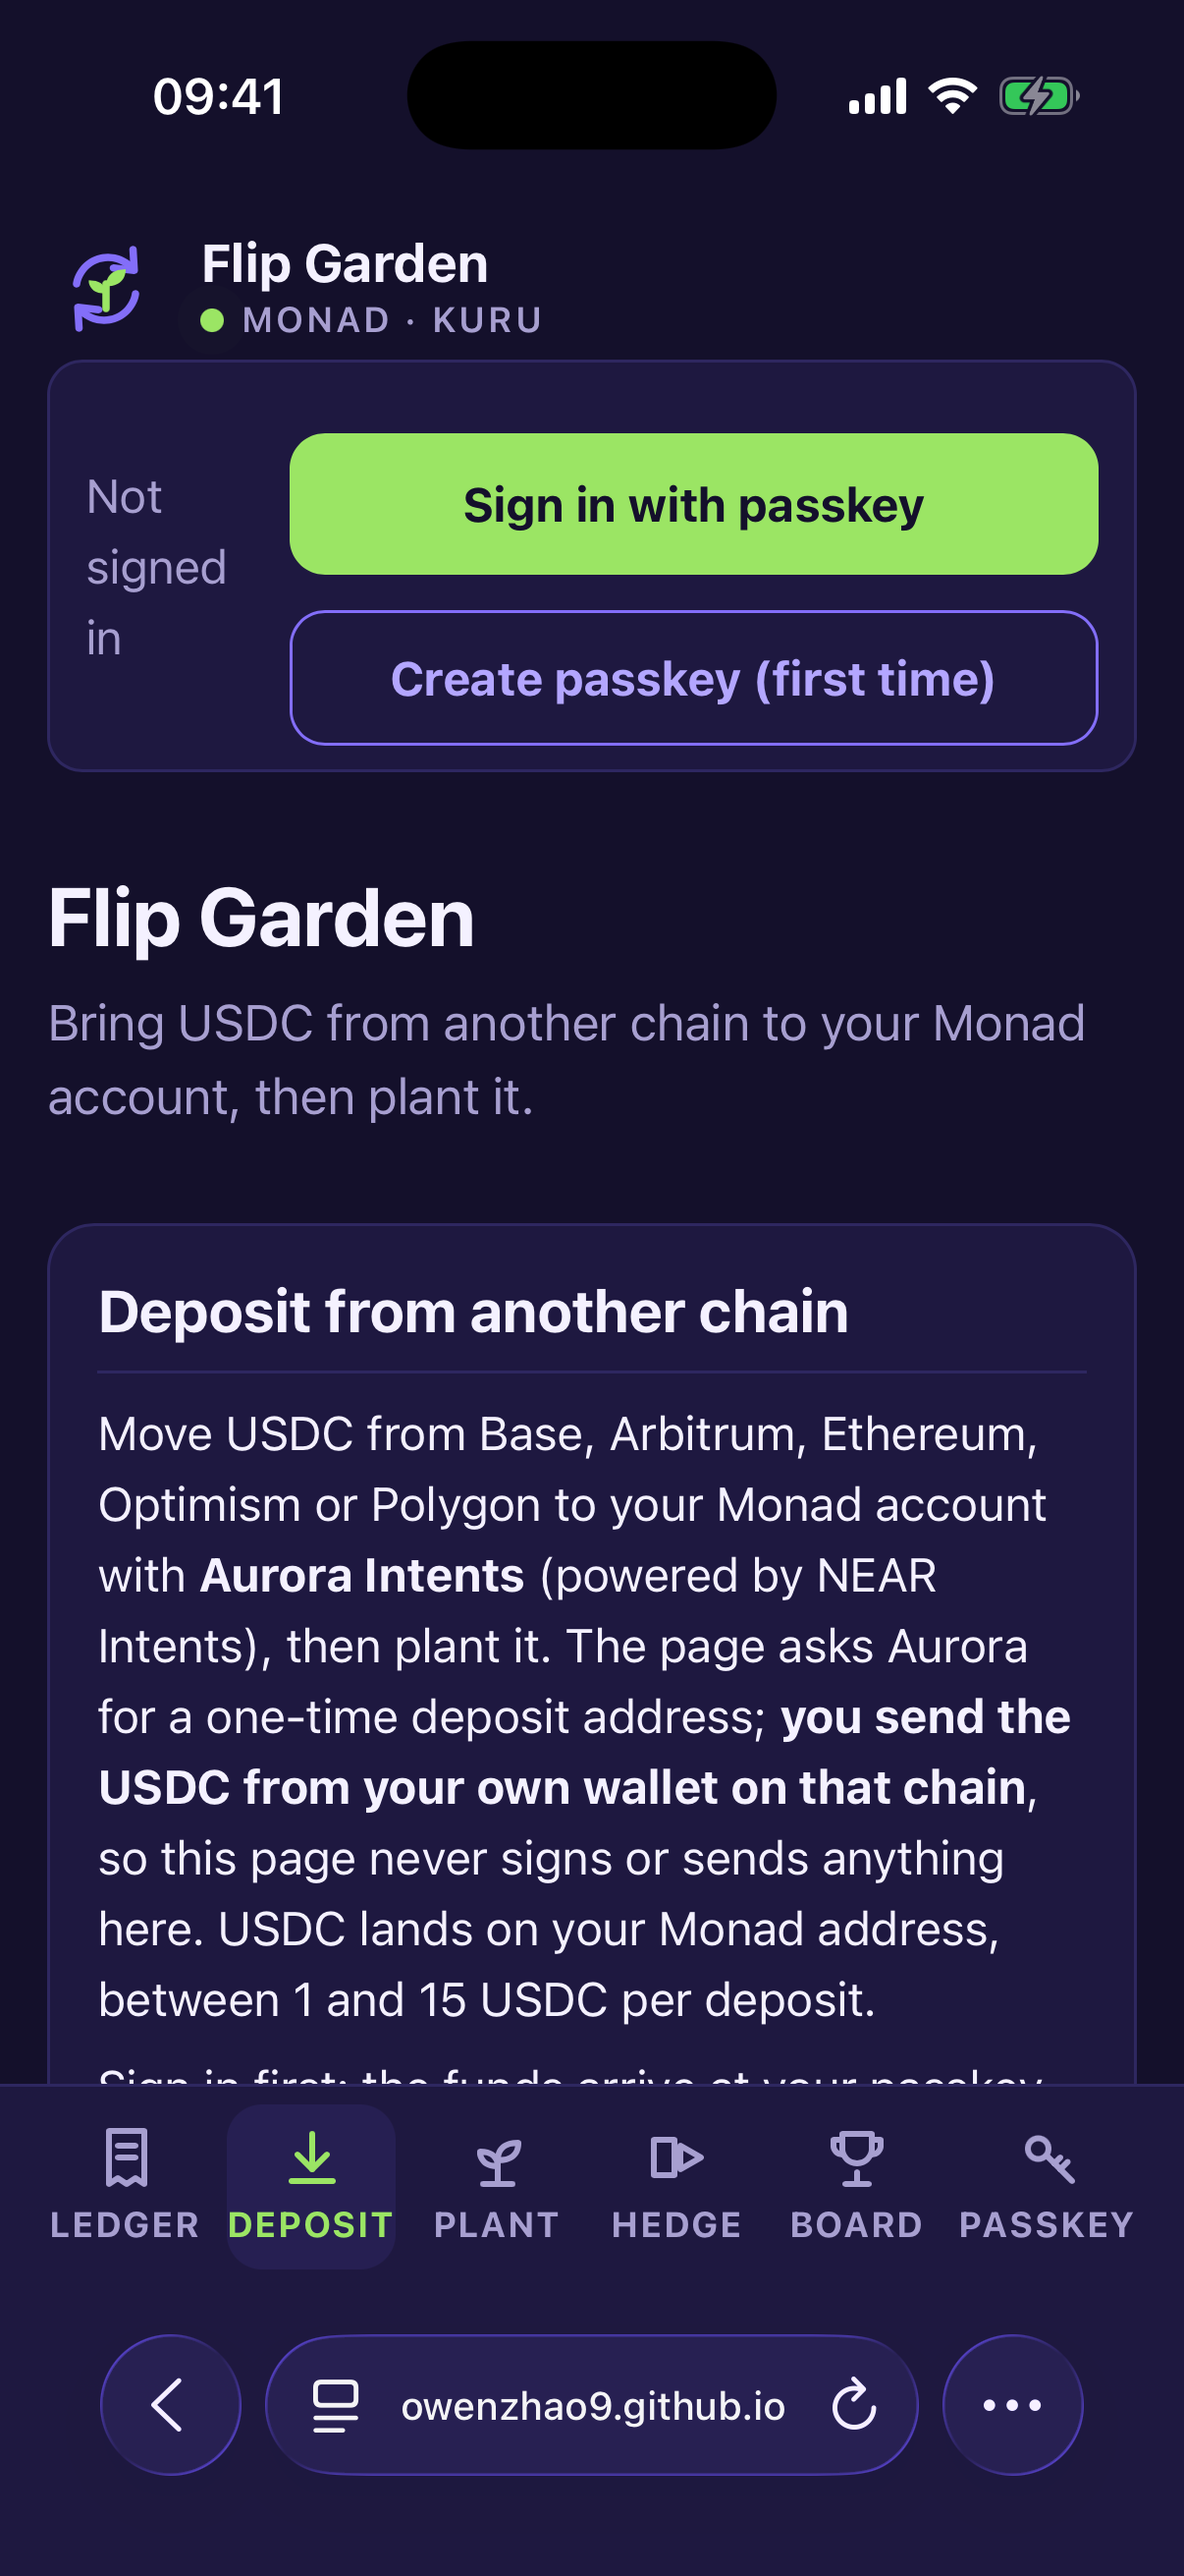
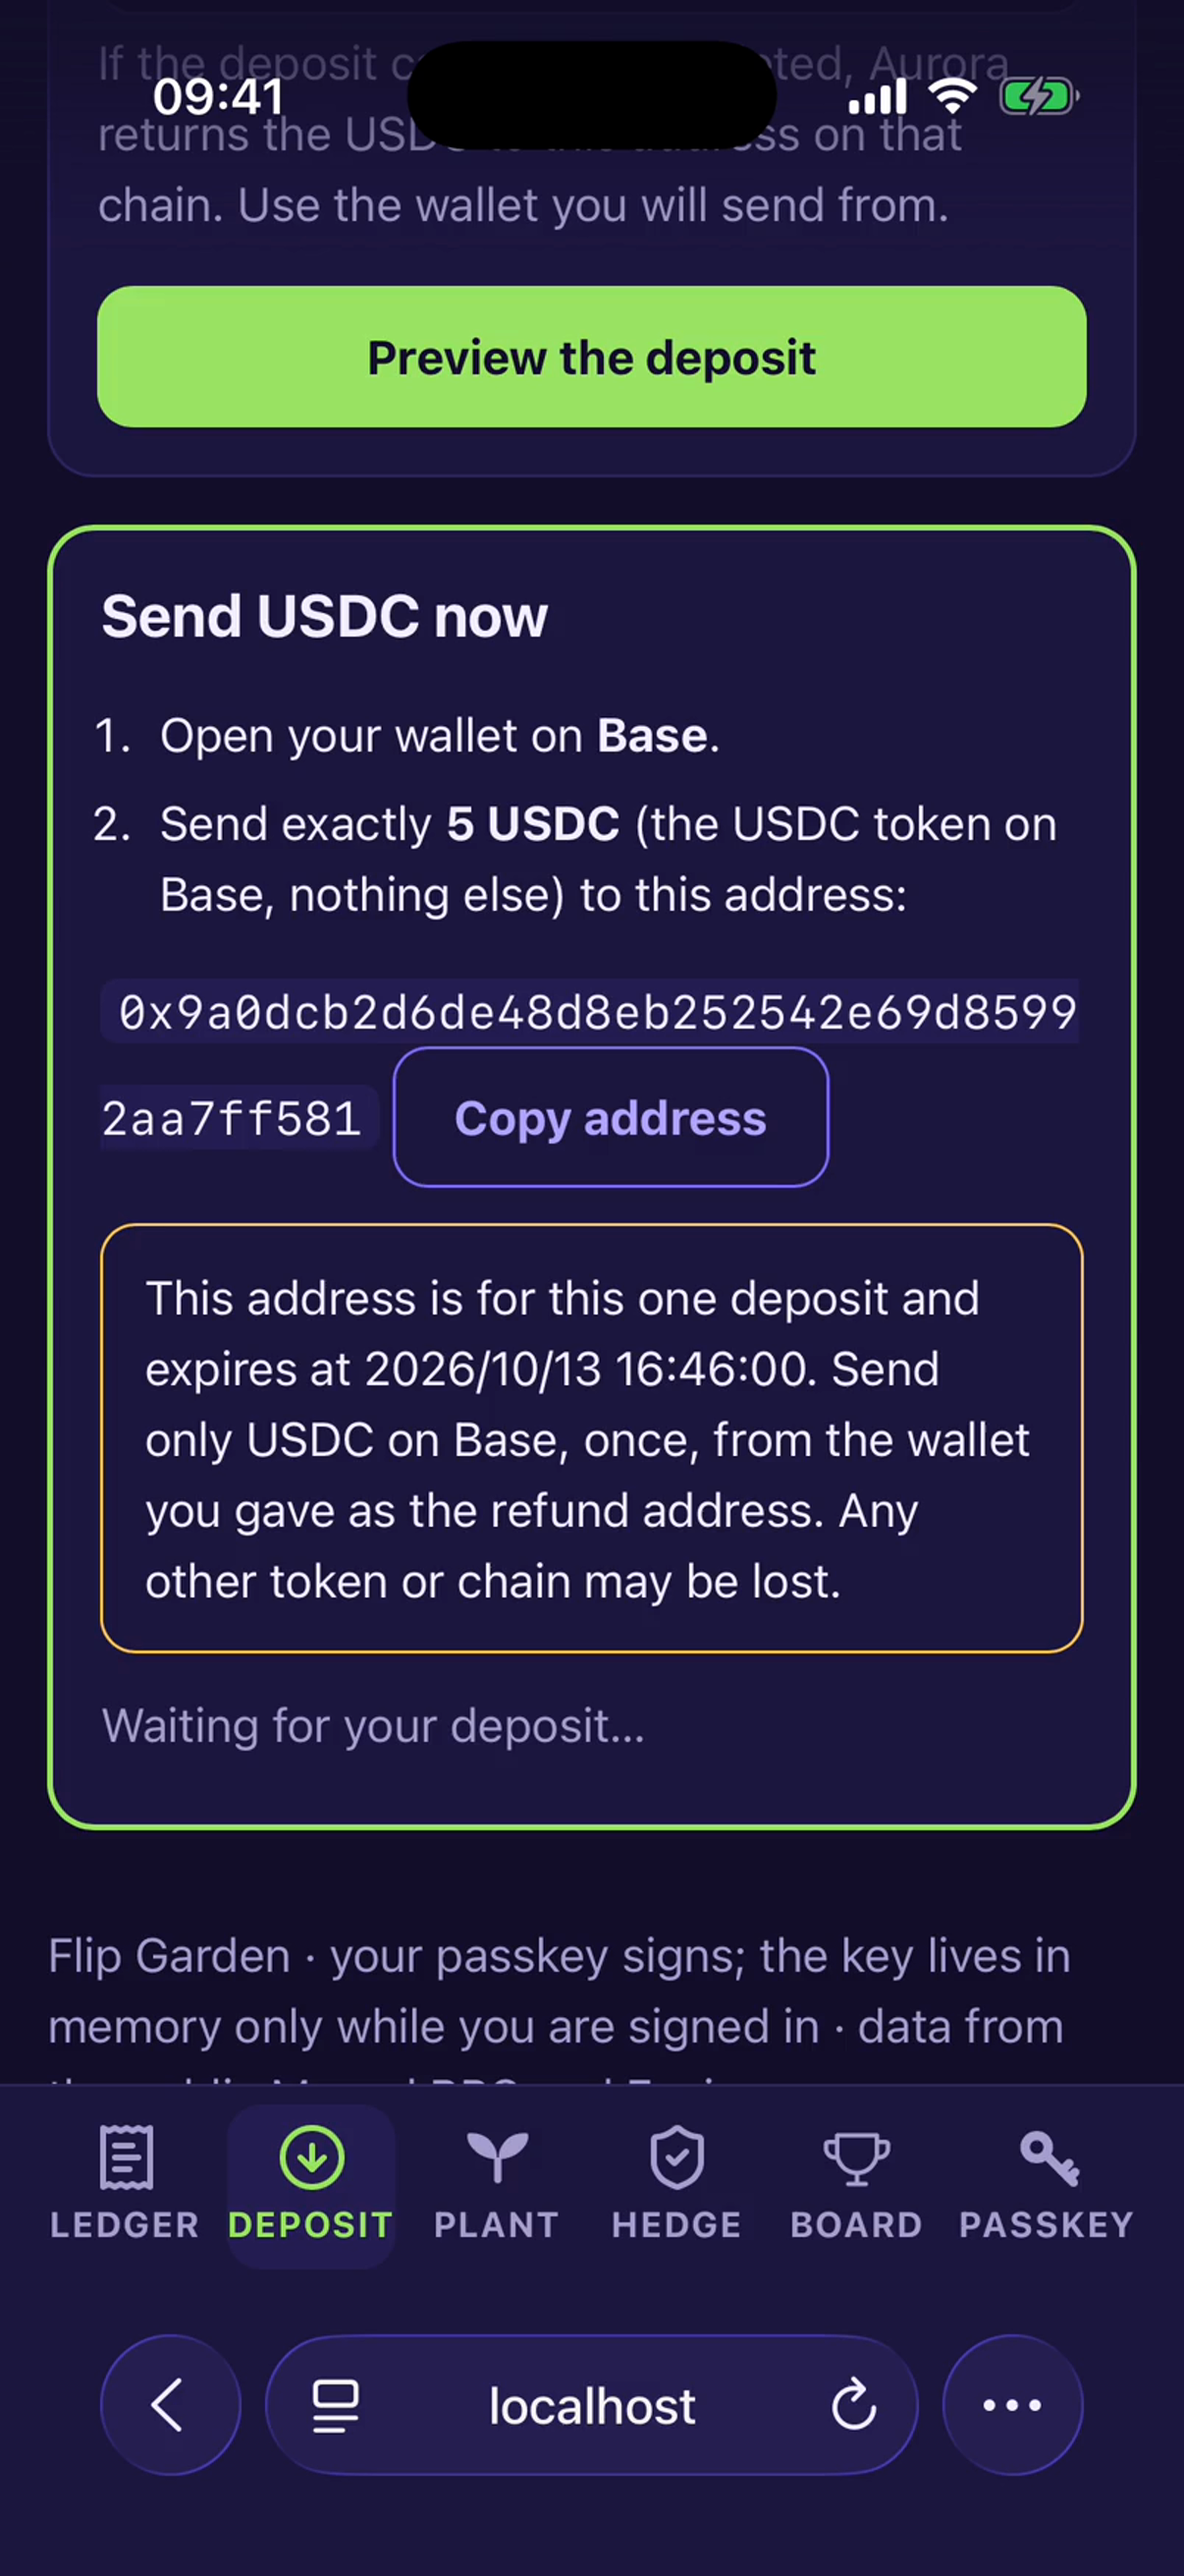
video: pitch in the original style with the restyled interface and the five atmosphere shots

diff --git a/video/src/Pitch.tsx b/video/src/Pitch.tsx
@@ -1,4 +1,4 @@
-import { AbsoluteFill, Audio, Easing, Sequence, interpolate, spring, staticFile, useCurrentFrame, useVideoConfig } from 'remotion';
+import { AbsoluteFill, Audio, Easing, Img, OffthreadVideo, Sequence, interpolate, spring, staticFile, useCurrentFrame, useVideoConfig } from 'remotion';
 import type { CSSProperties, ReactNode } from 'react';
 import scenes from './pitch.json';
 import { Phone, PhoneVid, PHONE_H, PHONE_W } from './Phone';
@@ -92,8 +92,8 @@ const S1 = () => (
       </div>
       <div style={{ marginTop: 20 }}><Sprout delay={22} /></div>
     </div>
-    <FloatPhone rec="tour_s.mp4" from={12} x={1130} y={60} scale={0.62} tilt={-14} rot={4} delay={10} />
-    <FloatPhone rec="tour_s.mp4" from={0} x={1440} y={230} scale={0.5} tilt={-14} rot={8} delay={18} />
+    <FloatPhone rec="tour45_s.mp4" from={12} x={1130} y={60} scale={0.62} tilt={-14} rot={4} delay={10} />
+    <FloatPhone rec="tour45_s.mp4" from={0} x={1440} y={230} scale={0.5} tilt={-14} rot={8} delay={18} />
   </>
 );
 
@@ -130,7 +130,7 @@ const S3 = () => {
         <svg width="140" height="60"><path d="M5 30 H110 M90 10 L112 30 L90 50" stroke={filled ? '#ffc93c' : '#6a62a8'} strokeWidth="6" fill="none" strokeLinecap="round" /></svg>
         <div style={{ width: 280, padding: 30, borderRadius: 24, background: 'rgba(139,124,255,.2)', border: `3px dashed ${VIOLET}`, color: 'white', fontSize: 40, fontWeight: 700, opacity: 0.25 + 0.75 * flip, transform: `scale(${0.9 + 0.1 * flip})` }}>SELL<div style={{ fontSize: 28, fontWeight: 500, color: '#c9c3ff' }}>{flip > 0.5 ? 'Placed by itself' : 'Waiting'}</div></div>
       </div>
-      <FloatPhone rec="tour_s.mp4" from={24} x={1180} y={50} scale={0.62} tilt={12} rot={-3} />
+      <FloatPhone rec="tour45_s.mp4" from={24} x={1180} y={50} scale={0.62} tilt={12} rot={-3} />
     </>
   );
 };
@@ -152,7 +152,7 @@ const S4 = () => {
         <text x="10" y="40" fill={GREEN} fontSize="28" fontFamily={font}>MON inventory</text>
         <text x="10" y="390" fill={VIOLET} fontSize="28" fontFamily={font}>Short on Perpl</text>
       </svg>
-      <FloatPhone rec="tour_s.mp4" from={30} x={1200} y={50} scale={0.62} tilt={-12} rot={3} delay={6} />
+      <FloatPhone rec="tour45_s.mp4" from={30} x={1200} y={50} scale={0.62} tilt={-12} rot={3} delay={6} />
     </>
   );
 };
@@ -186,8 +186,8 @@ const S6 = () => {
   const n = Math.round(interpolate(f, [20, 80], [0, 6], { extrapolateLeft: 'clamp', extrapolateRight: 'clamp' }));
   return (
     <>
-      <FloatPhone rec="tour_s.mp4" from={0} x={110} y={50} scale={0.62} tilt={12} rot={-2} />
-      <FloatPhone rec="tour_s.mp4" from={13} zoom={1.9} fx={0.5} fy={0.3} x={560} y={190} scale={0.5} tilt={12} rot={4} delay={14} />
+      <FloatPhone rec="tour45_s.mp4" from={0} x={110} y={50} scale={0.62} tilt={12} rot={-2} />
+      <FloatPhone rec="tour45_s.mp4" from={13} zoom={1.9} fx={0.5} fy={0.3} x={560} y={190} scale={0.5} tilt={12} rot={4} delay={14} />
       <div style={{ position: 'absolute', right: 130, top: 190, width: 760 }}>
         <Eyebrow>Ledger</Eyebrow>
         <div style={{ color: 'white', fontSize: 84, fontWeight: 800, lineHeight: 1.05, marginTop: 24 }}>Matches<br /><span style={{ color: GREEN }}>the chain.</span></div>
@@ -219,7 +219,7 @@ const S7 = () => {
             <div style={{ fontSize: 56, fontWeight: 800, marginTop: 8 }}>Confirm once. It tends the rest.</div>
           </div>); })()}
       </div>
-      <FloatPhone rec="tour_s.mp4" from={36} x={1210} y={50} scale={0.62} tilt={-12} rot={3} delay={8} />
+      <FloatPhone rec="tour45_s.mp4" from={39} x={1210} y={50} scale={0.62} tilt={-12} rot={3} delay={8} />
     </>
   );
 };
@@ -258,6 +258,24 @@ const S9 = () => {
 
 const map: Record<string, () => JSX.Element> = { p1: S1, p2: S2, p3: S3, p4: S4, p5: S5, p6: S6, p7: S7, p8: S8, p9: S9 };
 
+const BROLL_SECONDS: Record<string, number> = { 'shot1.mp4': 6.6, 'shot2.mp4': 6.6, 'shot3.mp4': 6.6, 'shot4.mp4': 5.16, 'shot5.mp4': 6.6 };
+const Broll = ({ s }: { s: { broll: string; frames: number; logo?: boolean } }) => {
+  const f = useCurrentFrame();
+  const fade = Math.min(interpolate(f, [0, 10], [0, 1], { extrapolateRight: 'clamp' }), interpolate(f, [s.frames - 10, s.frames], [1, 0], { extrapolateLeft: 'clamp' }));
+  const logoIn = s.logo ? interpolate(f, [s.frames - 100, s.frames - 60], [0, 1], { extrapolateLeft: 'clamp', extrapolateRight: 'clamp' }) : 0;
+  return (
+    <AbsoluteFill style={{ opacity: fade, fontFamily: font }}>
+      <OffthreadVideo src={staticFile(`broll/${s.broll}`)} playbackRate={Math.min(1, BROLL_SECONDS[s.broll] / (s.frames / 30))} muted style={{ width: 1920, height: 1080, objectFit: 'cover' }} />
+      {s.logo ? (
+        <AbsoluteFill style={{ alignItems: 'center', justifyContent: 'flex-start', paddingTop: 170, opacity: logoIn, background: `linear-gradient(180deg, rgba(8,6,20,${0.55 * logoIn}) 0%, rgba(8,6,20,0) 60%)` }}>
+          <Img src={staticFile('logo.png')} style={{ width: 260, height: 260, borderRadius: 56 }} />
+          <div style={{ marginTop: 28, color: 'white', fontSize: 72, fontWeight: 800 }}>Flip Garden</div>
+        </AbsoluteFill>
+      ) : null}
+    </AbsoluteFill>
+  );
+};
+
 const SceneWrap = ({ s }: { s: (typeof scenes)[number] }) => {
   const f = useCurrentFrame();
   const C = map[s.id];
@@ -279,7 +297,8 @@ export const Pitch = () => {
     <AbsoluteFill style={{ background: '#07060f' }}>
       <Audio src={staticFile('audio/music.wav')} volume={0.12} />
       {scenes.map((s) => {
-        const el = <Sequence key={s.id} from={start} durationInFrames={s.frames}><SceneWrap s={s} /></Sequence>;
+        const b = s as unknown as { broll?: string; frames: number; logo?: boolean };
+        const el = <Sequence key={s.id} from={start} durationInFrames={s.frames}>{b.broll ? <Broll s={b as { broll: string; frames: number; logo?: boolean }} /> : <SceneWrap s={s} />}</Sequence>;
         start += s.frames;
         return el;
       })}
